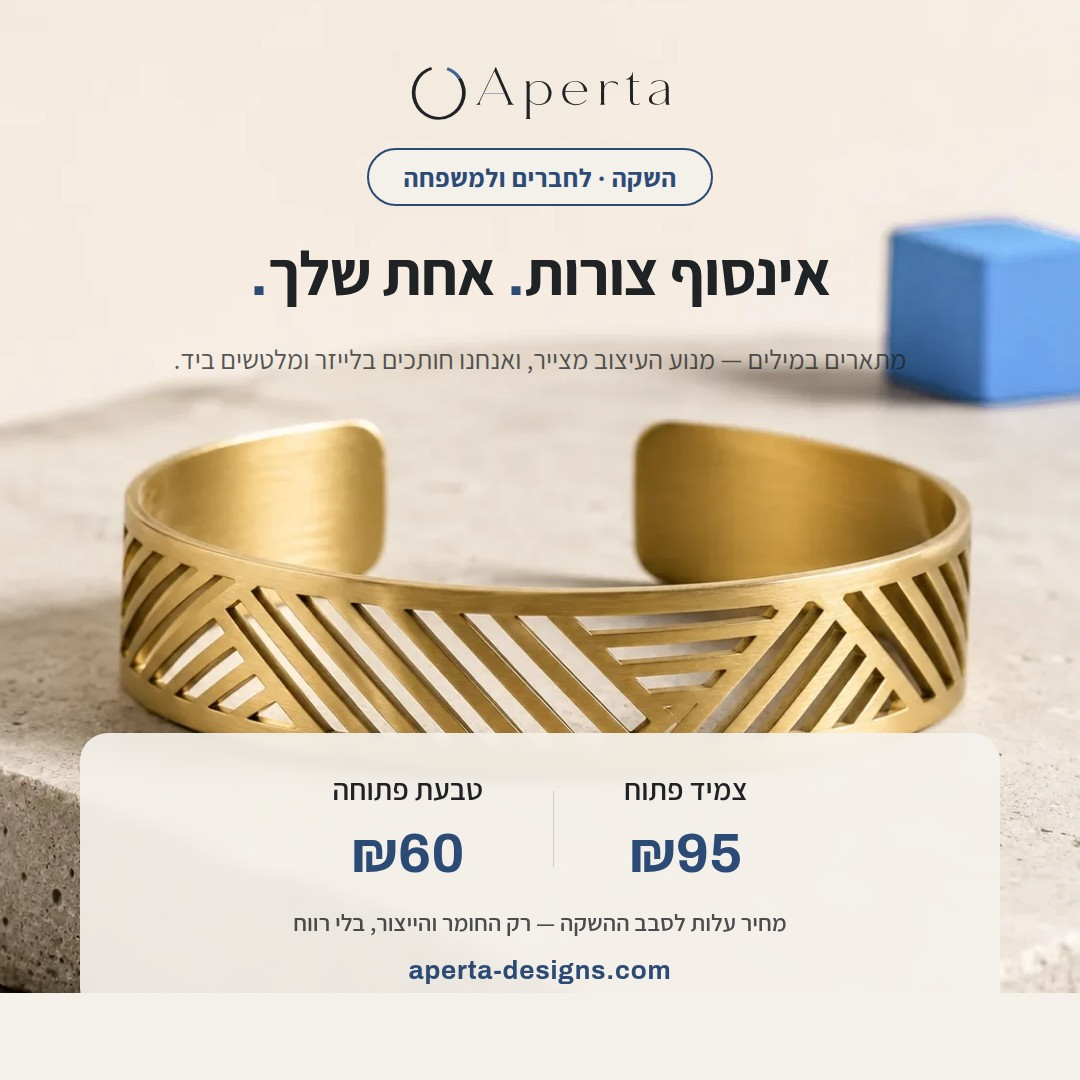
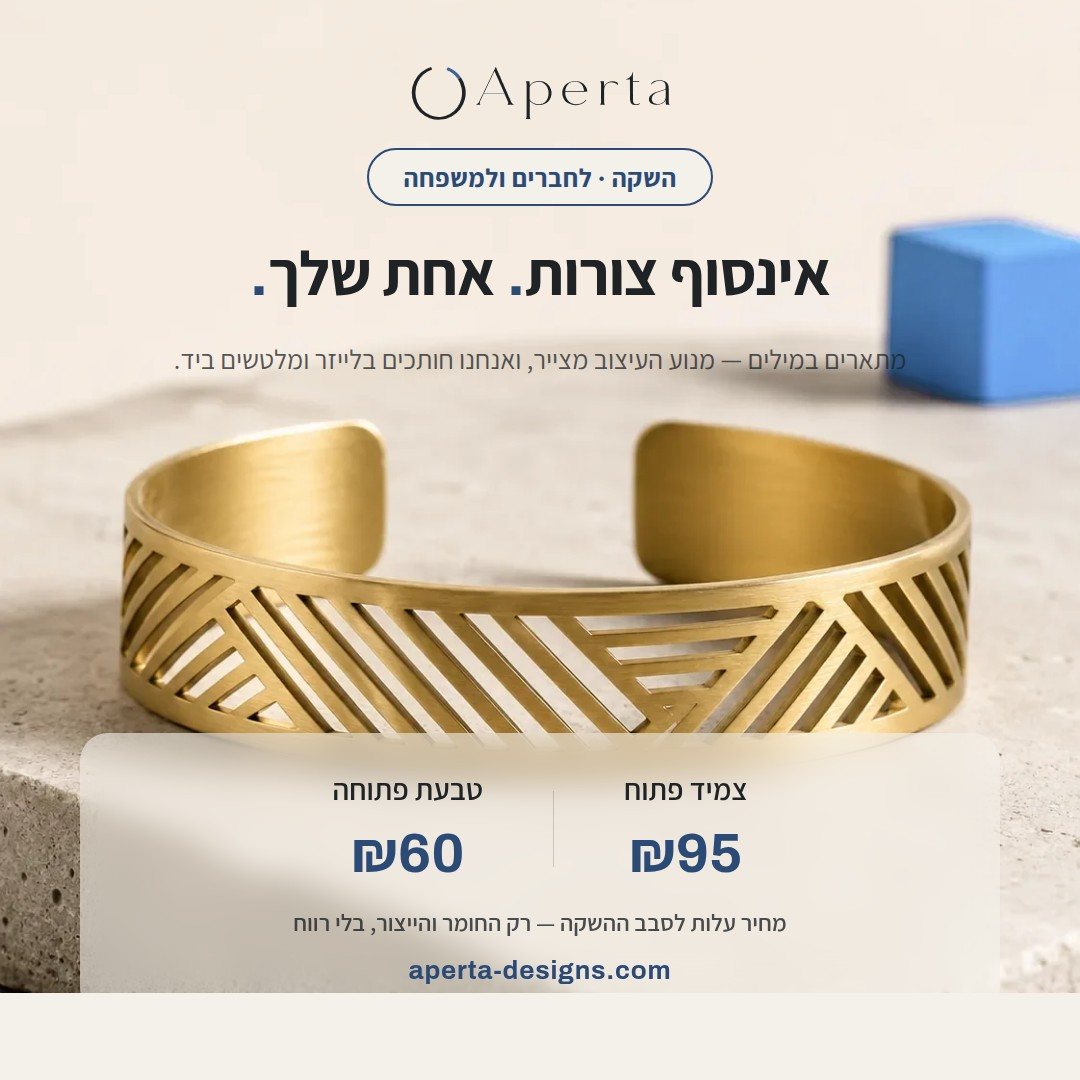
קארד ההשקה: קופסת מחירים שקופה חלקית; ההודעה מצהירה על ניסוי כלים
הקופסה האטומה הסתירה את האבן — ירדה ל-58% אטימות עם blur חזק יותר,
כך שהתצלום נמשך מתחתיה והטקסט נשאר קריא. ההודעה המלווה אומרת עכשיו
במפורש שההזמנות הראשונות הן ניסוי כלים לאתר, לייצור ולמשלוח, ומבקשת
דיווח מפורט על כל תקלה (מה עשיתם, מה ציפיתם, מה קרה, צילום מסך) —
תקלה כציפייה מוצהרת ולא כהפתעה.

Claude-Session: https://claude.ai/code/session_015V7HJaLYGExX5K6G3rk3fU

Changed region(s): [[0.0611, 0.6722, 0.7639, 0.9167]]

diff --git a/docs/brand/social/build-social-assets.py b/docs/brand/social/build-social-assets.py
@@ -283,7 +283,7 @@ html,body{{width:1080px;height:1080px;background:var(--porcelain);position:relat
 .headline{{font-family:'Archivo','Assistant',sans-serif;font-weight:700;font-size:62px;color:var(--graphite);letter-spacing:-0.01em;}}
 .headline .accent{{color:var(--lapis-ink);}}
 .sub{{font-size:27px;color:var(--graphite);opacity:0.75;max-width:840px;font-weight:400;line-height:1.5;}}
-.card{{position:absolute;bottom:64px;left:80px;right:80px;background:rgba(244,241,235,0.93);backdrop-filter:blur(6px);border-radius:28px;padding:36px 52px 32px;display:flex;flex-direction:column;align-items:center;gap:18px;}}
+.card{{position:absolute;bottom:64px;left:80px;right:80px;background:rgba(244,241,235,0.58);backdrop-filter:blur(16px);border-radius:28px;padding:36px 52px 32px;display:flex;flex-direction:column;align-items:center;gap:18px;}}
 .prices{{display:flex;align-items:center;gap:70px;}}
 .divider{{width:1px;height:76px;background:rgba(32,35,38,0.18);}}
 .costnote{{font-size:24px;font-weight:600;color:var(--graphite);opacity:0.8;}}

diff --git a/docs/brand/social/whatsapp-launch.md b/docs/brand/social/whatsapp-launch.md
@@ -28,8 +28,14 @@
 >
 > כל פריט מיוצר אישית, אז ההמתנה היא 10–14 ימי עבודה מרגע אישור העיצוב.
 >
-> מה שאני מבקש בתמורה: תיכנסו, תעצבו משהו משלכם, ותגידו לי בכנות מה עבד
-> ומה פחות. הפידבק שלכם עכשיו שווה לי יותר מהכול.
+> וחשוב לי לומר בכנות: אתם הראשונים, וההזמנות הראשונות הן גם *ניסוי כלים*
+> — לאתר, לייצור ולמשלוח. יכול להיות שתיתקלו בתקלות: משהו באתר שלא יעבוד,
+> עיצוב שייצא שונה ממה שדמיינתם, עיכוב בדרך. אם קורה משהו כזה — זה בדיוק
+> מה שאני צריך לשמוע, ובכמה שיותר פירוט: מה עשיתם, מה ציפיתם שיקרה, מה
+> קרה בפועל (צילום מסך = זהב).
+>
+> אז מה שאני מבקש: תיכנסו, תעצבו משהו משלכם, וספרו לי הכול — גם מה עבד,
+> ובעיקר מה לא. הפידבק שלכם עכשיו שווה לי יותר מהכול.
 >
 > 👉 https://aperta-designs.com
 
@@ -43,6 +49,10 @@
 - **מחיר העלות מוסבר, לא רק מוצהר** — "רק מה שהחומר והייצור עולים לי"
   עונה מראש על "למה כל כך זול?" ומגן על המחיר המלא שיבוא אחר כך; עוגן
   ה-₪299 עושה את ההפך — מגן על תפיסת הערך של ה-₪95.
+- **"ניסוי כלים" נאמר במפורש** — ההזמנות הראשונות בודקות את האתר, הייצור
+  והמשלוח, ותקלה אינה תרחיש נסתר אלא ציפייה מוצהרת. מי שהוזהר מראש מדווח
+  ברוגע ובפירוט; מי שהופתע — מתאכזב. הפירוט המבוקש מוגדר ("מה עשיתם, מה
+  ציפיתם, מה קרה, צילום מסך") כדי שהדיווחים יגיעו שמישים ולא כ"לא עבד לי".
 - **בקשת הפידבק היא התמורה** — היא הופכת את ההנחה מעסקת צדקה לעסקה הוגנת,
   ונותנת לנמען תפקיד: בודק מוקדם, לא לקוח מסובסד.
 - **שורת זמן האספקה** — מנהלת ציפיות מראש; הקהל הזה יסלח על המתנה, לא על
